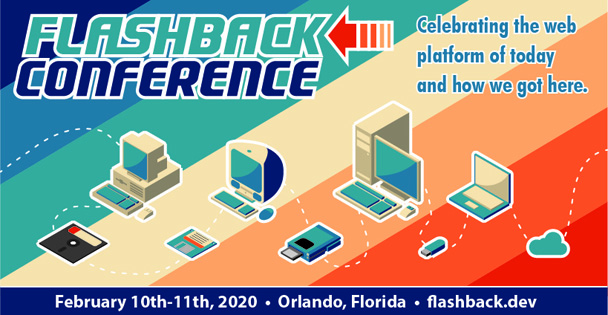
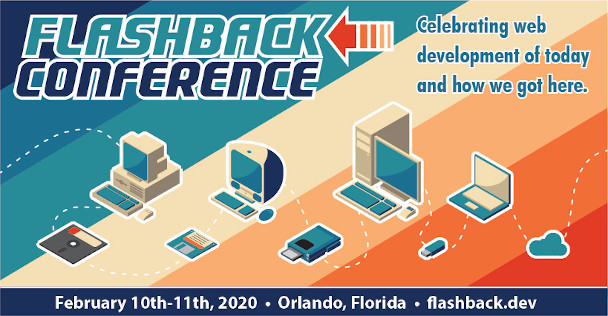
flashback updates

diff --git a/layouts/partials/left-nav.html b/layouts/partials/left-nav.html
@@ -41,19 +41,13 @@
     </ul>
   </nav>
   <div class="socials sidenav__socials"> 
-    <a class="social social-facebook" href="#" target="_blank" aria-label="facebook">
-      <i class="ui-facebook"></i>
-    </a>
-    <a class="social social-twitter" href="#" target="_blank" aria-label="twitter">
+    <a class="social social-twitter" href="https://twitter.com/fresheventsfl" target="_blank" aria-label="twitter">
       <i class="ui-twitter"></i>
     </a>
-    <a class="social social-google-plus" href="#" target="_blank" aria-label="google">
-      <i class="ui-google"></i>
-    </a>
-    <a class="social social-youtube" href="#" target="_blank" aria-label="youtube">
+    <a class="social social-youtube" href="https://www.youtube.com/channel/UC8mBtfX_7KNLP3LMQZJA8yg" target="_blank" aria-label="youtube">
       <i class="ui-youtube"></i>
     </a>
-    <a class="social social-instagram" href="#" target="_blank" aria-label="instagram">
+    <a class="social social-instagram" href="https://www.instagram.com/certifiedfreshevents/" target="_blank" aria-label="instagram">
       <i class="ui-instagram"></i>
     </a>
   </div>

diff --git a/layouts/index.html b/layouts/index.html
@@ -78,7 +78,7 @@
             {{ range first 6 (where (where .Site.Pages.ByDate.Reverse "Section" "events") ".Params.embed_url" "!=" nil)}}
             <a href="{{ .Params.embed_url }}" class="video-playlist__list-item video-playlist__list-item--active">
               <div class="video-playlist__list-item-thumb">
-                <img data-src="/img/banners/thumbs/{{ .Params.Homepage_banner }}" src="/img/banners/{{ .Params.Homepage_banner }}" class="video-playlist__list-item-img lazyload" alt="">
+                <img data-src="/img/banners/thumbs/{{ .Params.Homepage_banner }}" src="/img/banners/{{ .Params.Homepage_banner }}" class="video-playlist__list-item-img lazyload" alt="{{ .Title }}">
               </div>
               <div class="video-playlist__list-item-description">
                 <h4 class="video-playlist__list-item-title">{{ .Title }}</h4>

diff --git a/content/events/flashback-conference-2020.md b/content/events/flashback-conference-2020.md
@@ -166,7 +166,9 @@ featured: true
 
 # Join us on February 10-11 in Orlando, Florida!
 
-Flashback Conference looks at new and cutting-edge web platform features, APIs and tooling, but aims to put them in historical context by understanding how they've evolved from early HTML, JavaScript and a dependency on plugins like Flash to the web of today. Flashback Conference will feature 2 days and approximately 15 speakers who are experts in the field of front-end development.
+Flashback Conference looks at new and cutting-edge web development, browser APIs and developer tooling, but adds the understanding how they've evolved from early HTML, JavaScript and a dependency on plugins like Flash to the web of today. Flashback Conference will feature 2 days and approximately 15 speakers who are experts in the field of front-end development.
+
+Web developers are impacted every day by the evolution of the web platform because HTML, CSS and JavaScript all aim to be fully backwards compatible. Web developers can build the skillsets of their craft by undestanding not just how their tools work, but why they work that way.
 
 <a href="#register">Register Today</a>
 
